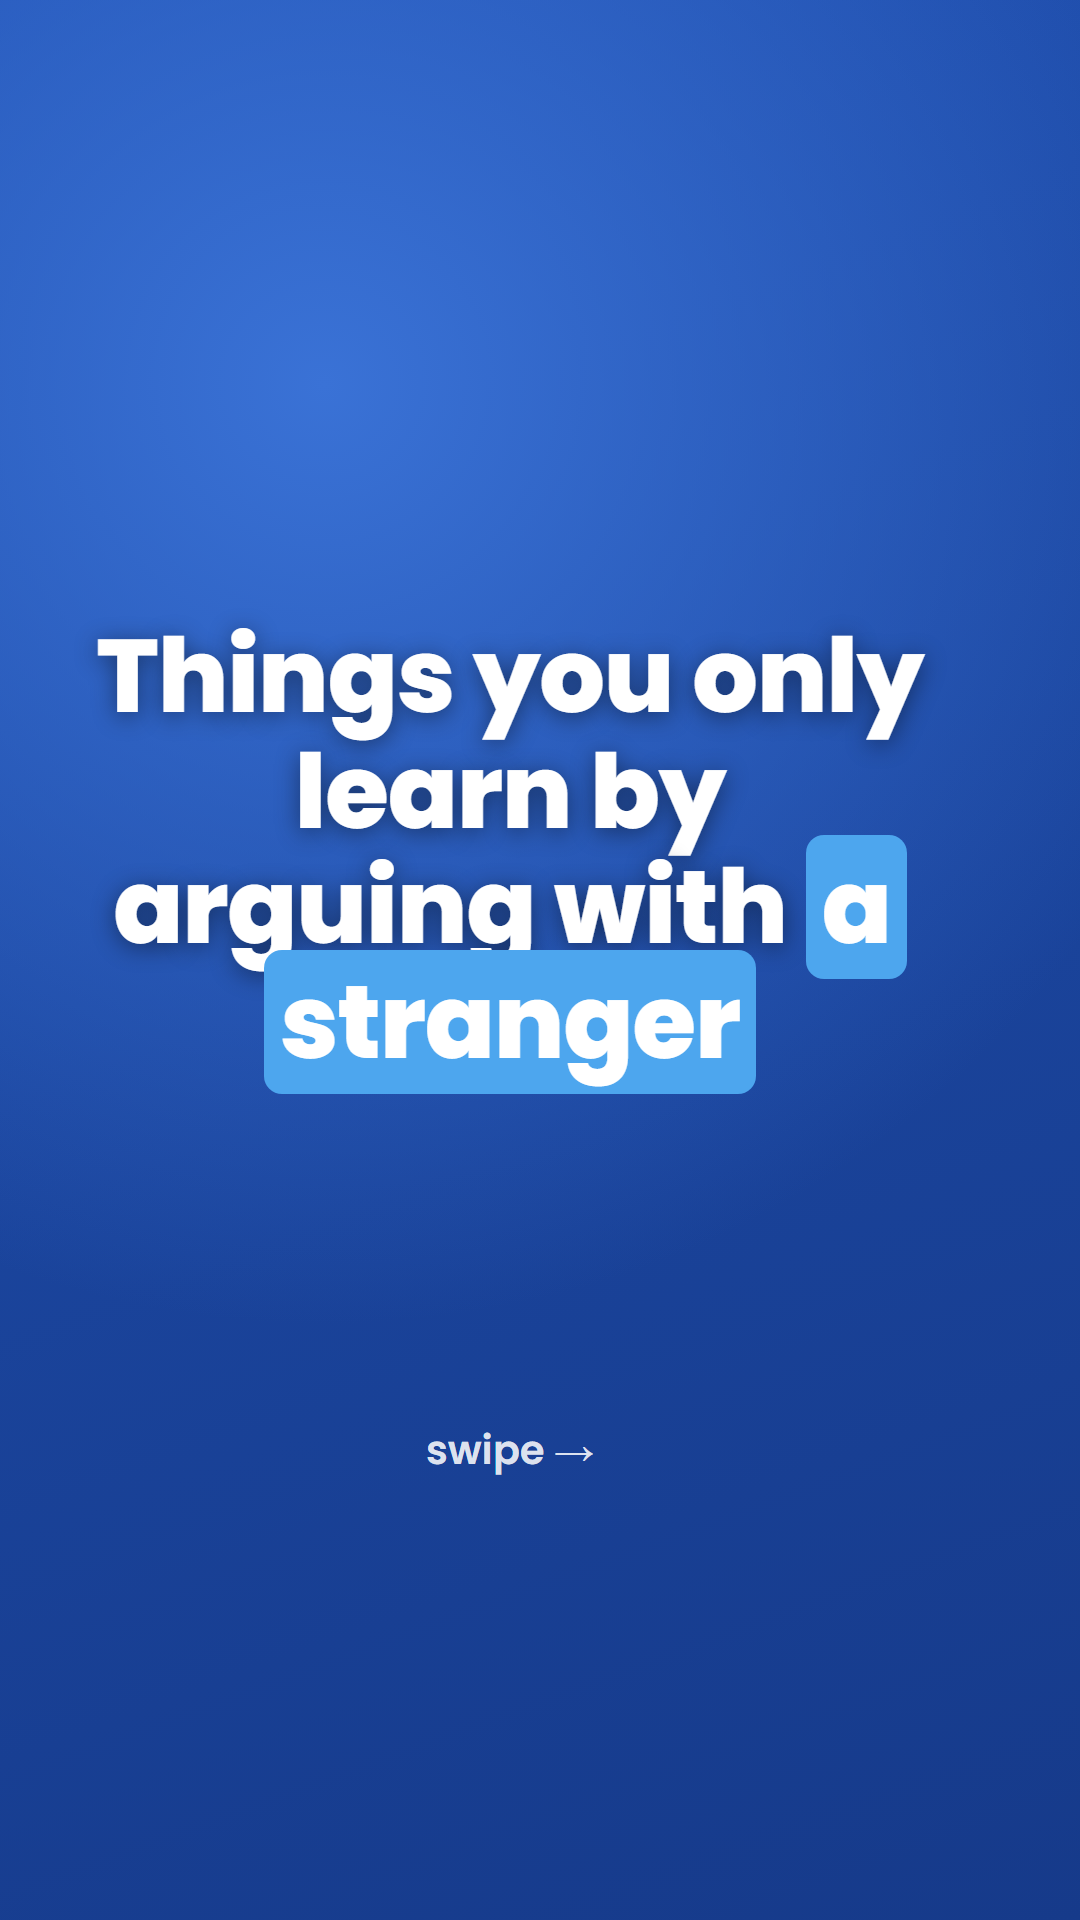
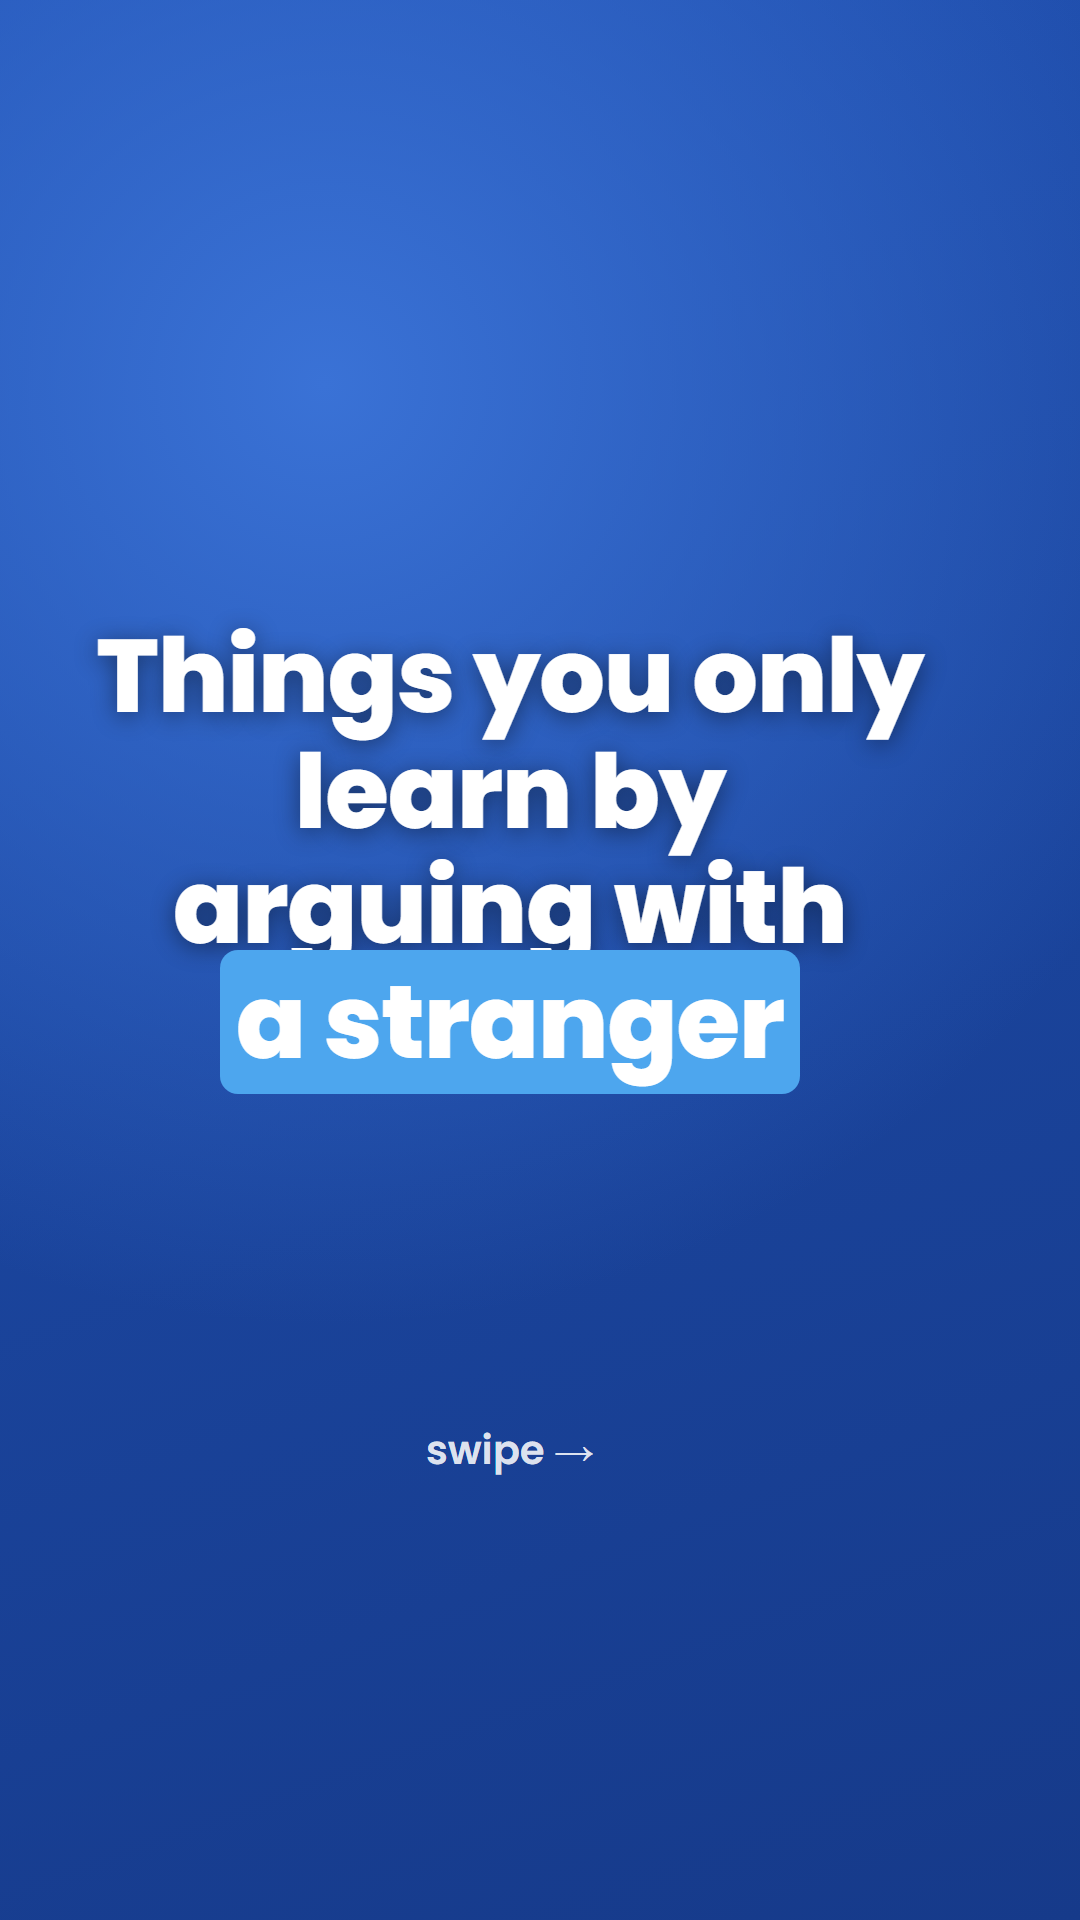
Keep short hook highlights on one line; re-render post 6 hook

Changed region(s): [[0.0917, 0.4375, 0.8556, 0.5938]]

diff --git a/channels/tiktok-slideshows/templates/slides.ts b/channels/tiktok-slideshows/templates/slides.ts
@@ -94,7 +94,9 @@ const CAPTION_TEXT = `color:${C.white};-webkit-text-stroke:10px ${C.navy};paint-
 function highlighted(text: string, highlight?: string): string {
   const safe = esc(text);
   if (!highlight || !text.includes(highlight)) return safe;
-  return safe.replace(esc(highlight), `<span class="hl">${esc(highlight)}</span>`);
+  // Short highlights stay on one line so the pill doesn't split.
+  const nowrap = highlight.length <= 18 ? ' style="white-space:nowrap"' : "";
+  return safe.replace(esc(highlight), `<span class="hl"${nowrap}>${esc(highlight)}</span>`);
 }
 
 // --- Hook layouts -----------------------------------------------------------
